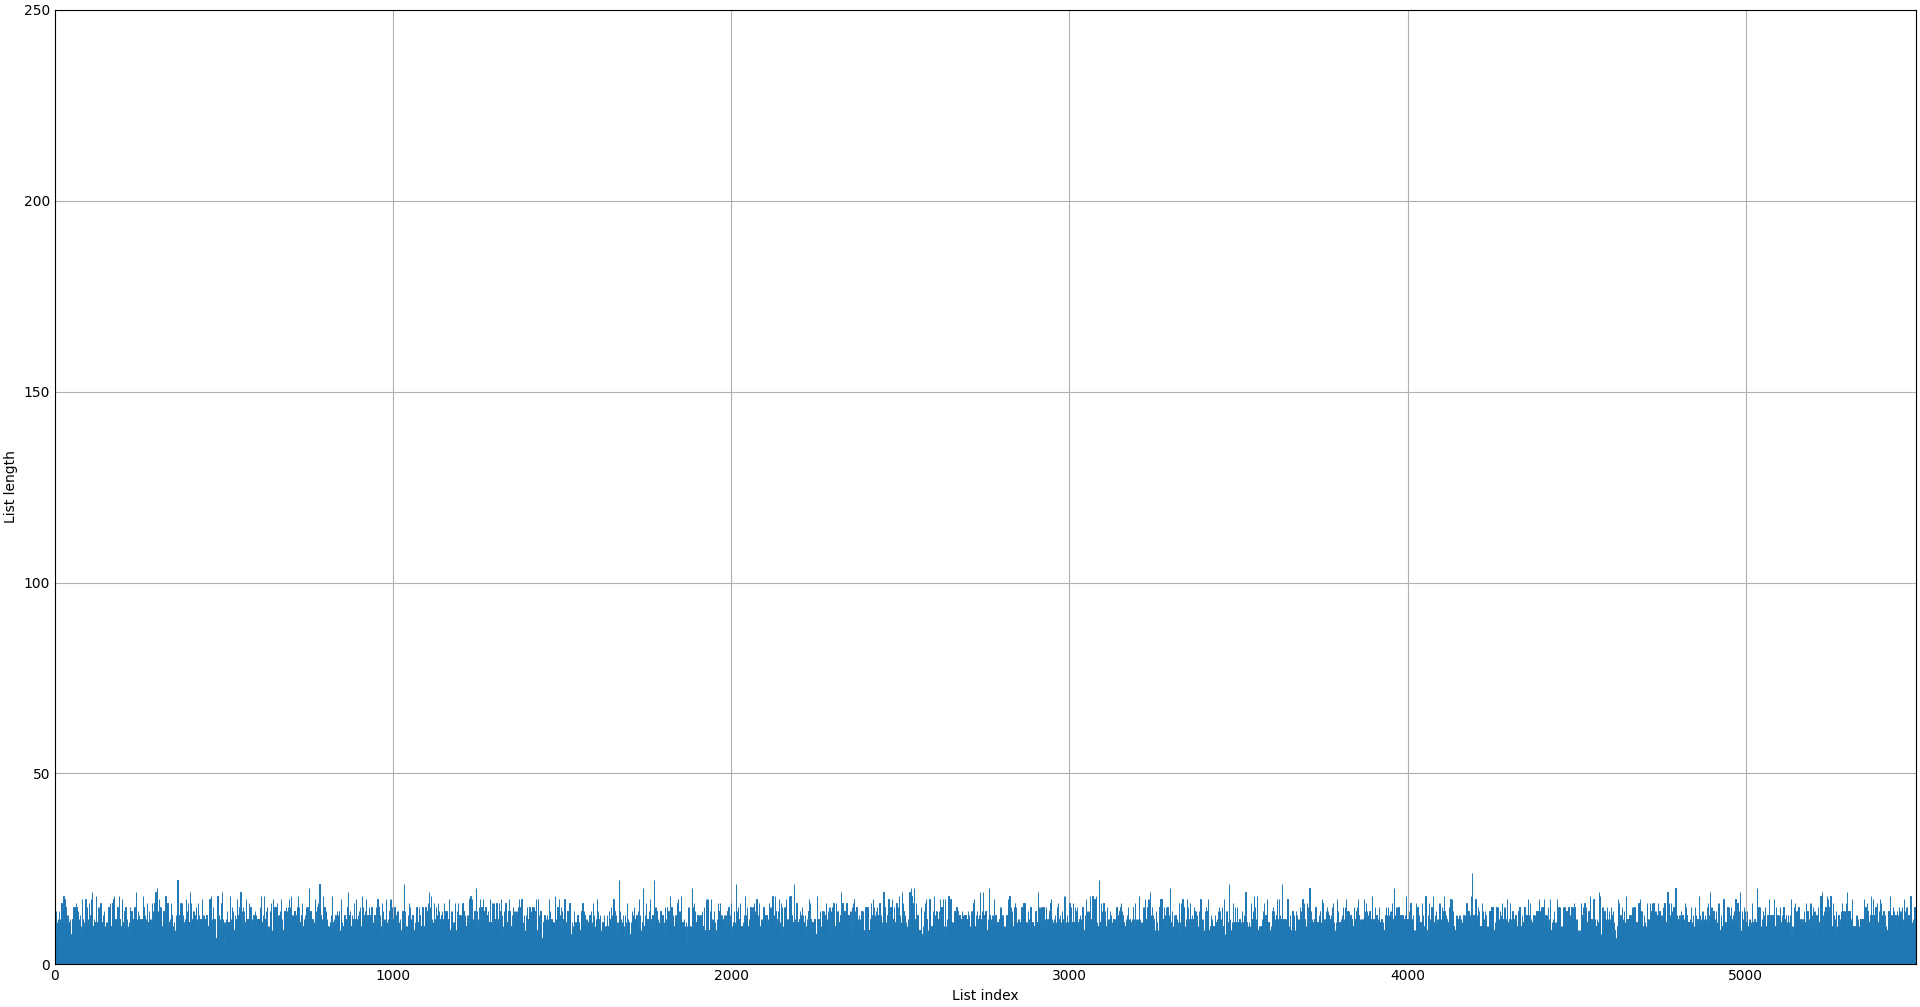
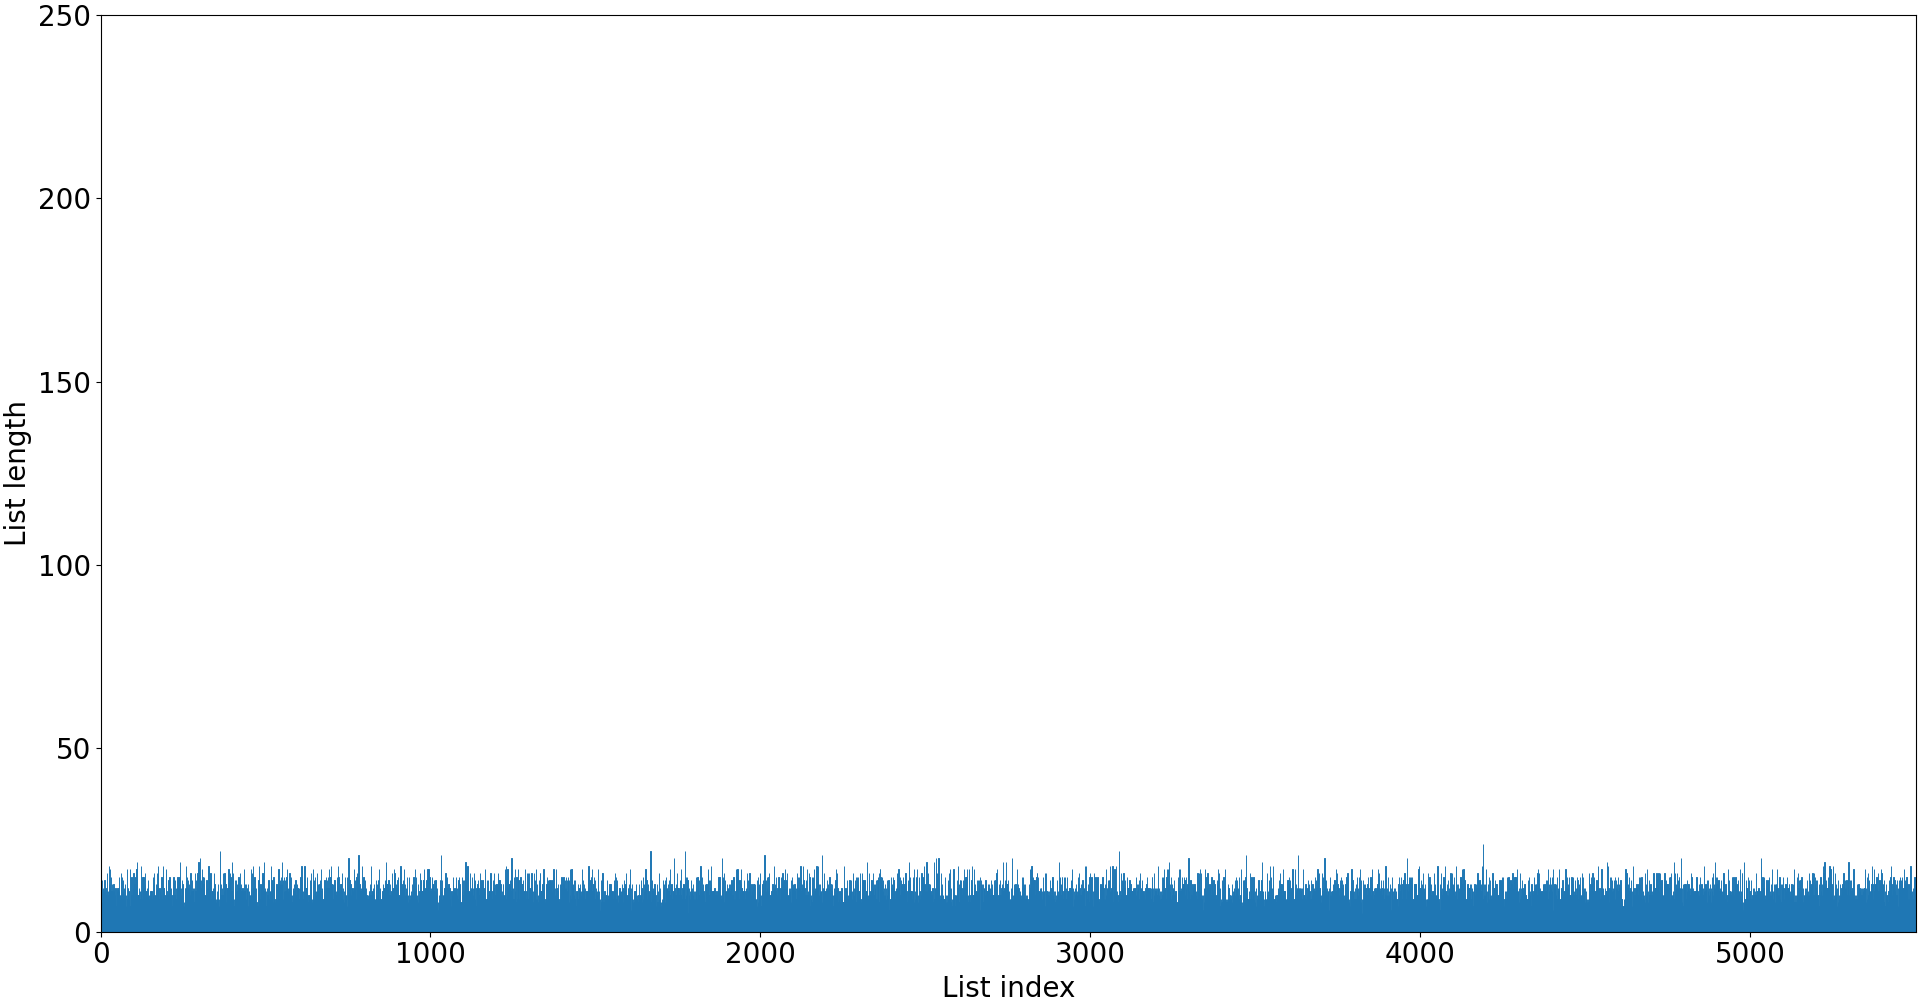
Update README.md

diff --git a/README.md b/README.md
@@ -55,11 +55,17 @@ conv.exe [input-filename] [output-filename]
 #### Версия 1 (crc32)
 
 
-Как видно из вывода callgrind, наиболее затратной по времени является функция хеширования. В предыдущих версиях мы использовали алгоритм gnu_hash, теперь мы заменим его аппаратно поддерживаемым crc32, распределение которого ничуть не уступает gnu hash. Реализуем его с помощью директивы *asm*, которая позволяет напрямую вставлять ассемблерный код в функции C, при этом отключая встроенные в компилятор оптимизации. 
+Как видно из вывода callgrind, наиболее затратной по времени является функция хеширования. В предыдущих версиях мы использовали алгоритм gnu_hash, теперь мы заменим его аппаратно поддерживаемым crc32, распределение которого ничуть не уступает gnu hash. 
 
-| ![crc32](assets/crc32.png)      | ![gnu_hash](assets/gnu_hash.png)   |
-|:------------------------------- |:---------------------------------- |
-|Рисунок 1. Распределение "crc32" |Рисунок 2. Распределение "gnu hash" |
+| ![gnu_hash](assets/gnu_hash.png)   |
+|:---------------------------------- |
+|Рисунок 1. Распределение "gnu hash" |
+
+| ![crc32](assets/crc32.png)      |
+|:------------------------------- |
+|Рисунок 2. Распределение "crc32" |
+
+Реализуем его с помощью директивы *asm*, которая позволяет напрямую вставлять ассемблерный код в функции C, при этом отключая встроенные в компилятор оптимизации.
 
 ```C
 hash_t sum = 0;
